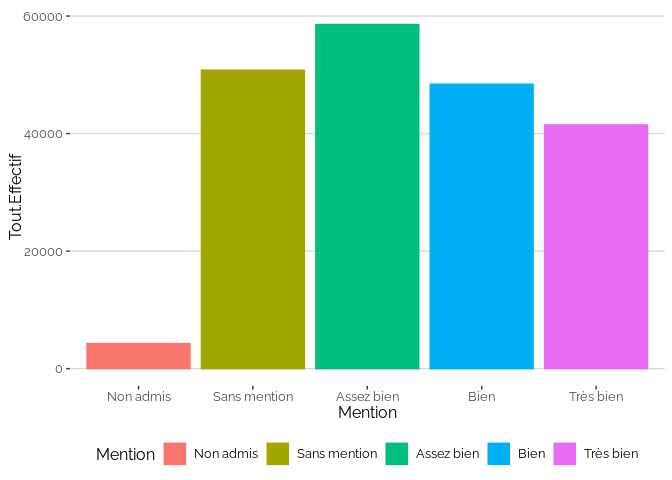
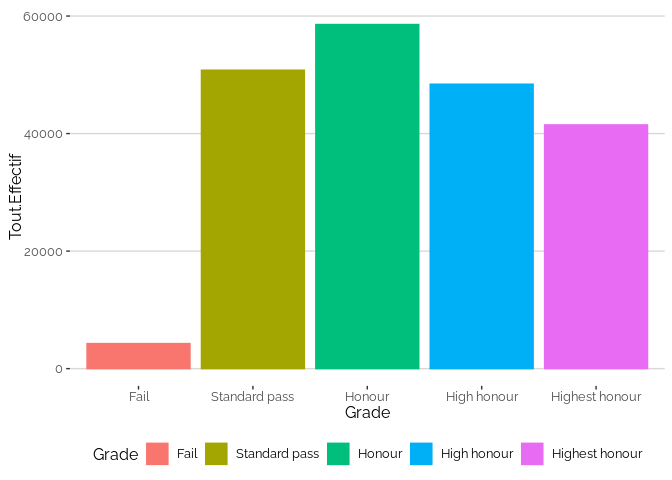
Traduction et alignement des légendes

diff --git a/inequite.md b/inequite.md
@@ -94,7 +94,8 @@ ayant 11.9 mérite 12, et pas tel autre. On peut donc construire ordre
 plus pertinente des candidats en réduisant la précision des données, par
 exemple en regroupant les notes avec une précision de 1/1 :
 
-    ## `summarise()` has grouped output by 'Moyenne'. You can override using the `.groups` argument.
+    ## `summarise()` has grouped output by 'Moyenne'. You can override using the
+    ## `.groups` argument.
 
 ![](inequite_files/figure-gfm/bac.distrib.1-1.png)<!-- --> On augmente
 ainsi la pertinence de l’ordre entre les candidats, mais au prix d’une
@@ -104,7 +105,8 @@ jusqu’à 150 000 candidats partagent la même note.
 En regardant le seul Bac S, on dépasse encore les 30 000 candidats par
 note :
 
-    ## `summarise()` has grouped output by 'Moyenne'. You can override using the `.groups` argument.
+    ## `summarise()` has grouped output by 'Moyenne'. You can override using the
+    ## `.groups` argument.
 
 ![](inequite_files/figure-gfm/bac.distrib.1.s-1.png)<!-- -->
 
@@ -144,15 +146,9 @@ centaines de formations ont plus de 10 000 candidatures.
 
 ![](inequite_files/figure-gfm/ps.distrib-1.png)<!-- -->
 
-    ## Warning: Transformation introduced infinite values in continuous x-axis
-
-    ## Warning: Removed 292 rows containing non-finite values (stat_ecdf).
-
 ![](inequite_files/figure-gfm/ps.distrib.cdf-1.png)<!-- -->
 
 ![](inequite_files/figure-gfm/ps.distrib.2-1.png)<!-- -->
-
-    ## Warning: Removed 1 rows containing missing values (geom_point).
 
 ![](inequite_files/figure-gfm/ps.distrib.points-1.png)<!-- -->
 
@@ -314,7 +310,7 @@ des Organisations - Paris - Classique
 Regardons maintenant les mention des candidats admis dans ces formations
 :
 
-![](inequite_files/figure-gfm/ps.distrib.max.mention-1.png)<!-- -->
+![](inequite_files/figure-gfm/ps%3C.distrib.max.mention-1.png)<!-- -->
 
 On peut constater des profils assez variés, allant de formations ne
 recrutant que des mentions TB (A), à des formation recrutant plus de
@@ -329,7 +325,7 @@ candidatent plus volontiers dans les formations les plus demandées, et
 vice-versa. Notre hypothèse conduit donc à minimiser la difficulté de
 construire un ordre total parmi les candidatures.
 
-    ## Joining, by = "Mention"
+    ## Joining, by = "Grade"
 
 ![](inequite_files/figure-gfm/ps.distrib.max.mention.cand-1.png)<!-- -->
 
@@ -360,7 +356,7 @@ ces cas.
 
 Concentrons-nous sur la frontière des formations (C), (D) et (E) :
 
-    ## Joining, by = "Mention"
+    ## Joining, by = "Grade"
 
 ![](inequite_files/figure-gfm/ps.distrib.frontiere-1.png)<!-- -->
 
@@ -379,14 +375,14 @@ national à l’effectif de ces formations, on peut faire le calcul suivant
 frontière dans la formation (C), 678 dans formation (E) et 675 dans la
 formation (F).
 
-    ## Joining, by = "Mention"
+    ## Joining, by = "Grade"
 
     ## # A tibble: 3 × 3
     ##   id    Nombre candidats_confondus
     ##   <chr>  <dbl>               <dbl>
-    ## 1 C       4400                 768
-    ## 2 D       3884                 678
-    ## 3 E       3866                 675
+    ## 1 C       4839                 792
+    ## 2 D       4271                 699
+    ## 3 E       4252                 696
 
 On montre ainsi qu’un dixième de point de plus ou de moins peut faire
 gagner ou perdre des centaines de places, et conduire des candidats à
@@ -436,3 +432,16 @@ permet d’envisager des pistes pour augmenter l’équité de l’affectation,
 par exemple par l’utilisation d’un ordre total loin de la frontière, et
 par le recours au tirage au sort dès lors qu’on s’en approche, afin
 d’être arbitaire mais au moins pas inéquitable.
+
+### Annexe
+
+Nombre de formations selon le nombre de regroupements (files d’attente)
+différentes.
+
+    ## # A tibble: 4 × 3
+    ##   nb_grp nb_formation prop 
+    ##    <int>        <int> <chr>
+    ## 1      1         6561 52%  
+    ## 2      2         2118 17%  
+    ## 3      3         3833 31%  
+    ## 4      5           14 0%
